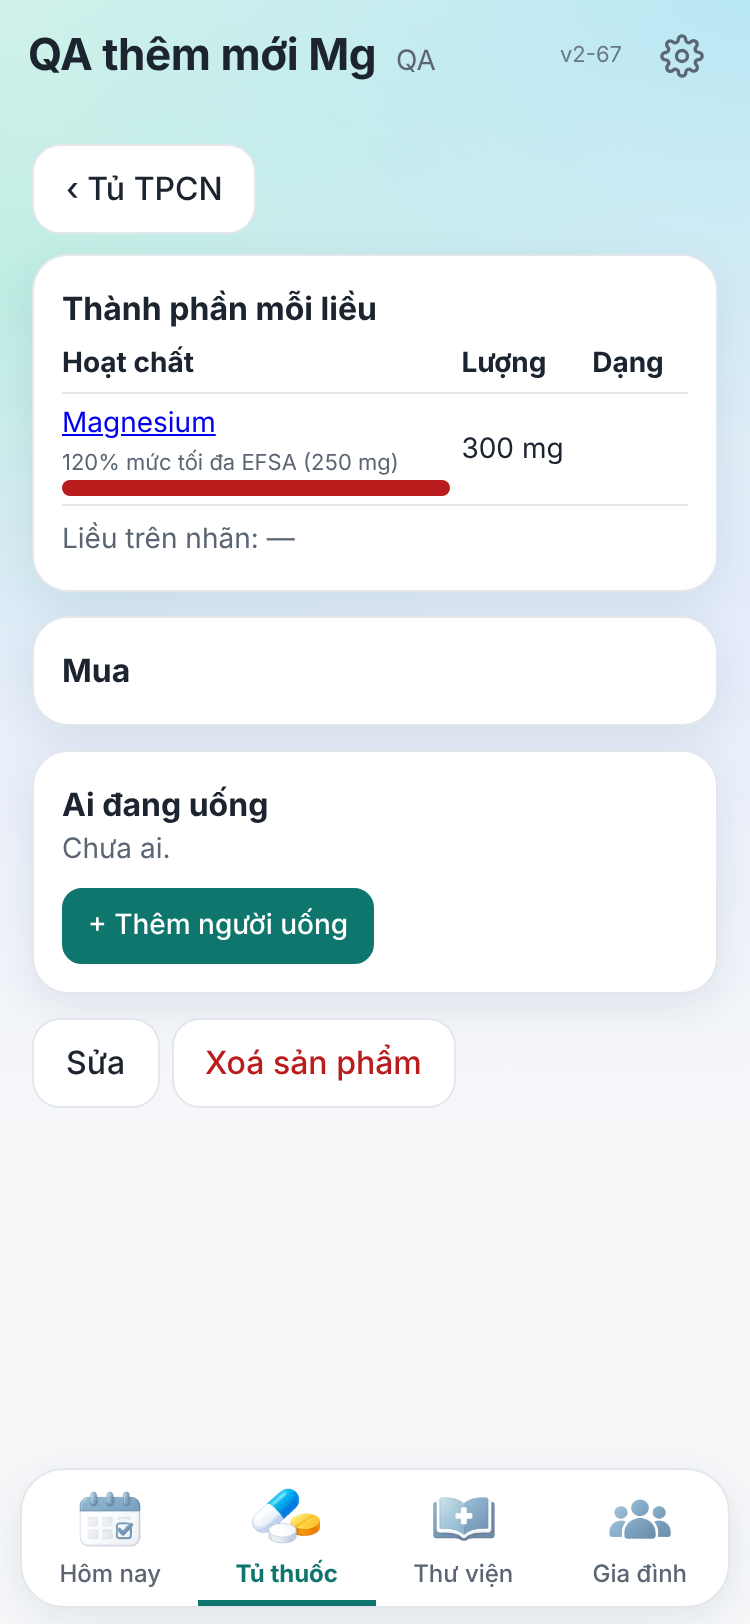
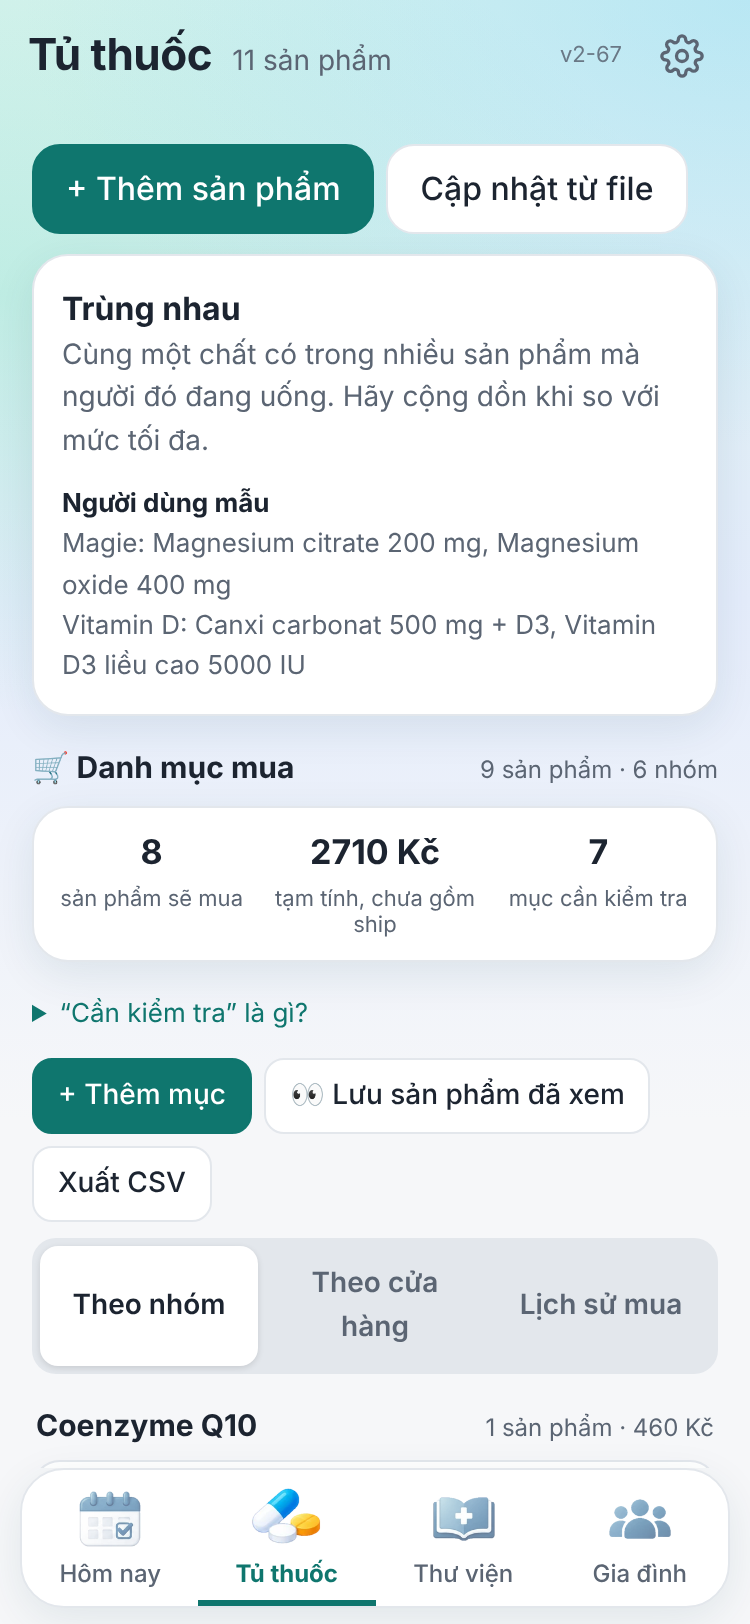
Tra cứu lại phần 2: 39/40 dòng đã tra
Claude-Session: https://claude.ai/code/session_01SSfFD4fcKWdnYujWfeTwik

diff --git a/ke-hoach/CHAM-MUC-LAI-2B.md b/ke-hoach/CHAM-MUC-LAI-2B.md
@@ -1,12 +1,12 @@
 # Chấm mức lại – đợt 2B (nửa sau)
 
 Phạm vi: 40 dòng cuối, sắp theo ma_y, trong số các dòng `cham-muc-lai.csv` còn ghi "chưa tra được nguồn riêng" (từ T-om3-mien-5345c3 đến Y-stjohn-tieuhoa-1b15e1).
-Kết quả nằm ở `du-lieu/cham-muc-lai-2b.csv`. File này không sửa file có sẵn nào.
+Kết quả nằm ở `du-lieu/cham-muc-lai-2b.csv`. File này không sửa file có sẵn nào. Cột do_chac chỉ dùng ba giá trị cao / vua / thap.
 
 ## Tổng quan
-- Đã tra web thật: 19 dòng. Thêm 1 dòng (Y-b6-tim) đối chiếu với nguồn RCT đã biết, không tra web.
-- Đổi mức: 11 dòng.
-- 20 dòng chưa tra riêng ở đợt này, giữ mức cũ và ghi rõ trong cột ly_do.
+- Đã tra web: 39/40 dòng. Riêng Y-b6-tim chỉ đối chiếu với nguồn RCT đã biết (HOPE-2, NORVIT), không tra web.
+- Đổi mức: 20 dòng.
+- Độ chắc: cao 3, vua 25, thap 12.
 
 ## Thay đổi mức
 | ma_y | Cũ → Mới | Nguồn chính |
@@ -17,18 +17,28 @@ Kết quả nằm ở `du-lieu/cham-muc-lai-2b.csv`. File này không sửa file
 | Y-lycopene-tim-092c76 (huyết áp) | R2 → R1 | Cheng, Atherosclerosis 2017; các phân tích gộp 2022 và 2026 |
 | Y-se-thai-63cd48 | R3 → R2 | Salas-Huetos, Adv Nutr 2018 |
 | T-zn-tim-29dd62 (huyết áp) | R3 → R2 | Mousavi, Eur J Nutr 2020 |
-| T-om3-ngu-049960, T-om3-ngu-20cad4 | R3 → R2 | Dai & Liu 2021 (người lớn: âm tính); Shimizu 2024 |
+| T-om3-ngu-049960, T-om3-ngu-20cad4 | R3 → R2 | Dai & Liu 2021; Shimizu 2024 |
+| T-probiotic-tieuhoa-2a8a75 | R3 → R2 | Front Immunol 2023 (26 RCT); có phân tích gộp âm tính |
+| T-probiotic-tieuhoa-5bb97a | R3 → R2 | Gut Microbes 2022 (BS50) |
+| T-silic-da-4d1ef2 | R3 → R2 | Barel, Arch Dermatol Res 2005 |
+| T-sucralose-gan-492c72 | R3 → R2 | Suez, Cell 2022 (chỉ phần vi khuẩn ruột và dung nạp glucose; chưa có bằng chứng về gan) |
+| T-zn-ngu-201a75, T-zn-ngu-452748 | R3 → R2 | Health Sci Rep 2024 (8 RCT, chưa gộp) |
+| Y-gsh-x-dff20b | R3 → R2 | Richie, Eur J Nutr 2015 |
+| T-vitE-ngu-7e9677 | R0 → R2 | 1 RCT, 160 phụ nữ sau mãn kinh (2023) |
 | Y-echinacea-x-81fc5b | R0 → R2 | Cochrane CD000530 (2014) |
 | Y-stjohn-tieuhoa-1b15e1 (IBS) | R3 → R− | Saito, Am J Gastroenterol 2010 |
-
-Một số dòng giữ nguyên mức nhưng nâng độ chắc lên trung_binh hoặc cao: vitD-gout, zn-than, collagen-khop, mg-duong, ashwagandha-co, tudca, b6-tim.
+| T-zn-nao-f6f910 | R3 → R− | Warthon-Medina, Eur J Clin Nutr 2015 |
 
 ## Ghi chú an toàn
-- Y-b6-tim: giữ R−, độ chắc cao. HOPE-2 và NORVIT không thấy B6/folat/B12 có lợi cho tim mạch.
-- T-vitD-gout: không có RCT nào cho thấy vitamin D có lợi cho gout. Không nên trình bày đây là biện pháp điều trị.
-- T-zn-than: kẽm và sỏi thận chỉ có dữ liệu quan sát, kết quả hai chiều. Kẽm bổ sung không liên quan đến sỏi.
-- T-tudca: cần bác sĩ chỉ định. Không tìm thấy RCT so sánh trực tiếp với UDCA cho sỏi mật.
-- Y-stjohn: khi dùng St John's wort, vẫn giữ cảnh báo tương tác thuốc như ở các Ý khác.
+- Y-b6-tim: giữ R−, độ chắc cao. B6/folat/B12 không giảm biến cố tim mạch.
+- T-vitD-gout: không có RCT. Không nên trình bày là biện pháp điều trị gout.
+- T-zn-than: chỉ có dữ liệu quan sát, kết quả hai chiều.
+- T-om3-tieuhoa: theo Cochrane, omega-3 có lẽ không hiệu quả để duy trì lui bệnh viêm ruột và có thể gây tiêu chảy.
+- Y-curc-x: NCCIH cảnh báo curcumin dạng sinh khả dụng cao có thể gây hại gan.
+- Y-ashwagandha-duong: thận trọng khi dùng cùng thuốc hạ đường huyết.
+- T-tudca: cần bác sĩ chỉ định.
+- Y-fe-mau: với bệnh thận mạn, theo hướng dẫn KDIGO 2026.
 
 ## Còn tồn
-Còn 20 dòng chưa tra: om3-mien, om3-tieuhoa, probiotic ×3, silic-da, sucralose, taurine, vitC-ngu, vitE-ngu, zn-nao, zn-ngu ×2, ashwagandha-duong, ca-x, curc-x, fe-mau, gsh-x, probiotic-x, stjohn-tamtrang-c4937a.
+- Y-stjohn-tamtrang-c4937a: chưa tra được kết quả cho phần ADHD.
+- Y-probiotic-x-9177f6: câu gộp nên không chấm được một mức chung.
